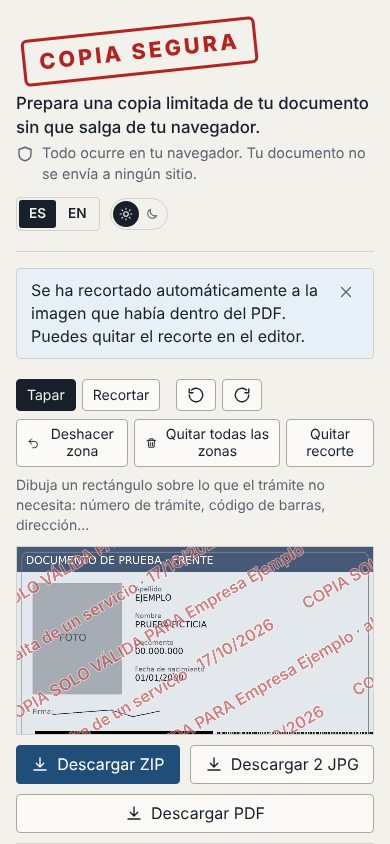
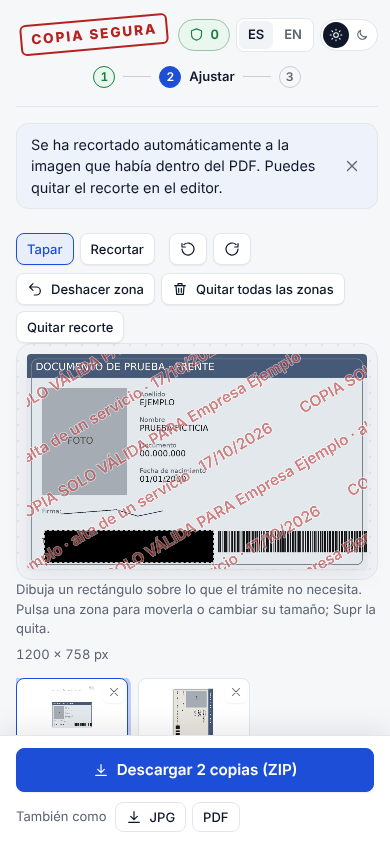
docs: rediseño en README, arquitectura, amenazas y ADR-0005; capturas nuevas; changelog 1.3.0
Claude-Session: https://claude.ai/code/session_01LUxn2Ph3TUErC9MN3Ck8ty

diff --git a/docs/arquitectura.md b/docs/arquitectura.md
@@ -8,7 +8,7 @@ atraviesa un caso de uso el sistema.
 flowchart LR
   subgraph ui["ui/ (DOM, estado de la interfaz)"]
     Main["main.ts<br/>raíz de composición"]
-    Views["vistas: header, notice, dropzone + demo,<br/>page-strip, editor, settings,<br/>export-bar, camera-dialog, about"]
+    Views["vistas: header (pasos, contador), notice,<br/>dropzone + demo, editor, page-strip,<br/>settings, export-bar, camera-dialog, about"]
     Services["services.ts"]
     Store["store.ts"]
   end
@@ -36,16 +36,16 @@ flowchart LR
 
 Funciones puras y tipos. Sin imports externos a la carpeta, sin DOM, sin `Date.now()`.
 
-| Módulo          | Responsabilidad                                                                                                                            |
-| --------------- | ------------------------------------------------------------------------------------------------------------------------------------------ |
-| `types.ts`      | `Page`, `PageEdits`, `Rotation`, `NormalizedRect`, `WatermarkStyle`, `WatermarkText`, `OutputOptions`, `CopyPlan`.                         |
-| `geometry.ts`   | Normalizar rectángulos, girarlos con la página, intersectar con el recorte, escalar a píxeles, `fitScale`.                                 |
-| `presets.ts`    | Presets _Normal_ y _Suave_; `resolveStyle(preset, overrides)`; acotación de rangos.                                                        |
-| `watermark.ts`  | Composición del texto (`composeWatermarkText`) y cálculo del mosaico (`layoutWatermark`), que recibe una función `MeasureText` para medir. |
-| `plan.ts`       | `planCopy(...)`: combina todo lo anterior en un `CopyPlan` determinista.                                                                   |
-| `pdf-images.ts` | Reconstrucción de la matriz de transformación sobre la lista de operadores de un PDF para localizar imágenes incrustadas.                  |
-| `templates.ts`  | Plantillas de zonas a tapar por tipo de documento, relativas a la tarjeta (RF-16).                                                         |
-| `naming.ts`     | Nombres de archivo de salida.                                                                                                              |
+| Módulo          | Responsabilidad                                                                                                                                                                  |
+| --------------- | -------------------------------------------------------------------------------------------------------------------------------------------------------------------------------- |
+| `types.ts`      | `Page`, `PageEdits`, `Rotation`, `NormalizedRect`, `WatermarkStyle`, `WatermarkText`, `OutputOptions`, `CopyPlan`.                                                               |
+| `geometry.ts`   | Normalizar rectángulos, girarlos con la página, moverlos y redimensionarlos sin salir del marco, intersectar con el recorte, escalar a píxeles, `fitScale`, bloque del pixelado. |
+| `presets.ts`    | Presets _Normal_ y _Suave_; `resolveStyle(preset, overrides)`; acotación de rangos.                                                                                              |
+| `watermark.ts`  | Composición del texto (`composeWatermarkText`) y cálculo del mosaico (`layoutWatermark`), que recibe una función `MeasureText` para medir.                                       |
+| `plan.ts`       | `planCopy(...)`: combina todo lo anterior en un `CopyPlan` determinista.                                                                                                         |
+| `pdf-images.ts` | Reconstrucción de la matriz de transformación sobre la lista de operadores de un PDF para localizar imágenes incrustadas.                                                        |
+| `templates.ts`  | Plantillas de zonas a tapar por tipo de documento, relativas a la tarjeta (RF-16).                                                                                               |
+| `naming.ts`     | Nombres de archivo de salida.                                                                                                                                                    |
 
 ### `src/application/`
 
@@ -70,9 +70,12 @@ o el DOM de descarga. Cada adaptador implementa exactamente un puerto.
 
 - `main.ts`: raíz de composición. Construye los adaptadores, los casos de uso y monta las vistas.
 - `store.ts`: estado inmutable con `get`, `update` y `select` (suscripción por selector), más las
-  acciones que lo transforman.
+  acciones que lo transforman y la conversión entre coordenadas de la vista previa y del marco de
+  página (`viewToPage` / `pageToView`). Tiene sus propios tests.
 - `services.ts`: orquesta casos de uso con el estado (ocupado, avisos traducidos).
 - `views/*.ts`: cada vista recibe el elemento raíz, el store y las dependencias que necesita.
+- `trust.ts`: contador de peticiones a otros dominios (RF-22), con _Resource Timing_. La
+  clasificación de URLs es pura y se prueba sin navegador.
 - `theme.ts`: tema claro / oscuro (RF-19). La decisión es una función pura (`toggledPreference`,
   probada sin navegador); aplicar y recordar, en funciones finas sobre el DOM. `public/theme.js`
   aplica la preferencia guardada antes del primer pintado.
@@ -96,6 +99,6 @@ o el DOM de descarga. Cada adaptador implementa exactamente un puerto.
 
 | Nivel        | Qué cubre                                                                                                                                                                                                                                             | Herramienta                  |
 | ------------ | ----------------------------------------------------------------------------------------------------------------------------------------------------------------------------------------------------------------------------------------------------- | ---------------------------- |
-| Unitarias    | `domain` y `application` con puertos falsos, y la lógica pura del tema. Nombradas por requisito (`RF-07`).                                                                                                                                            | Vitest, entorno Node         |
+| Unitarias    | `domain` y `application` con puertos falsos; en `ui`, el store, el tema y el contador. Nombradas por requisito (`RF-07`).                                                                                                                             | Vitest, entorno Node         |
 | Arquitectura | Regla de dependencia entre capas.                                                                                                                                                                                                                     | Vitest (análisis de imports) |
 | E2E          | Flujo completo con el documento de ejemplo en Chromium, servido bajo `/copia-segura/` como en Pages: importar, tapar, exportar, portada, plantillas, B/N, móvil, **cero peticiones externas** y una petición a otro dominio **bloqueada por la CSP**. | Playwright                   |

diff --git a/README.md b/README.md
@@ -25,14 +25,14 @@ documento a un servidor ajeno, que es justo lo que quieres evitar.
 
 ## Qué hace
 
-|                   |                                                                                                                                                                                                                                                                                                            |
-| ----------------- | ---------------------------------------------------------------------------------------------------------------------------------------------------------------------------------------------------------------------------------------------------------------------------------------------------------- |
-| **Entrada**       | Un PDF (cada página es editable; si la página es un A4 con la foto del documento dentro, se recorta sola), fotos JPG/PNG/WebP, o una captura con la cámara para la foto sosteniendo el documento (sin espejo). La portada enseña el resultado, paso a paso, con un documento ficticio antes de subir nada. |
-| **Edición**       | Tapar zonas dibujando con el ratón o el dedo, por franjas con botones o con plantillas de zonas típicas (DNI de España y de Argentina, frente y dorso); recortar, girar, deshacer.                                                                                                                         |
-| **Marca de agua** | Texto editable: `COPIA SOLO VÁLIDA PARA <destinatario> · <finalidad> · <fecha>`. Dos intensidades (_Normal_ y _Suave_) y ajuste fino de opacidad, tamaño, separación, ángulo, color y borde. El mosaico cruza toda la imagen, también las esquinas.                                                        |
-| **Salida**        | JPG por página, ZIP, un PDF de varias páginas o el menú de compartir del móvil. Blanco y negro opcional. Lado máximo configurable (1200 px por defecto), sin EXIF, XMP ni perfil de color de la foto original.                                                                                             |
-| **Interfaz**      | Español e inglés; tema claro u oscuro (sigue al del sistema o el que elijas, y lo recuerda).                                                                                                                                                                                                               |
-| **Privacidad**    | Todo ocurre en el navegador. La página no puede hacer peticiones a otros dominios (lo impone su _Content Security Policy_) y no guarda el documento en ningún sitio. Un test e2e registra todas las peticiones de un flujo completo y falla si alguna sale del origen.                                     |
+|                   |                                                                                                                                                                                                                                                                                                                                                 |
+| ----------------- | ----------------------------------------------------------------------------------------------------------------------------------------------------------------------------------------------------------------------------------------------------------------------------------------------------------------------------------------------- |
+| **Entrada**       | Un PDF (cada página es editable; si la página es un A4 con la foto del documento dentro, se recorta sola), fotos JPG/PNG/WebP, o una captura con la cámara para la foto sosteniendo el documento (sin espejo). La portada enseña el resultado, paso a paso, con un documento ficticio antes de subir nada.                                      |
+| **Edición**       | Tapar zonas dibujando con el ratón o el dedo, por franjas con botones o con plantillas de zonas típicas (DNI de España y de Argentina, frente y dorso); moverlas y redimensionarlas, también con teclado; en negro o pixelado grueso; recortar, girar, deshacer.                                                                                |
+| **Marca de agua** | Texto editable: `COPIA SOLO VÁLIDA PARA <destinatario> · <finalidad> · <fecha>`. Dos intensidades (_Normal_ y _Suave_) y ajuste fino de opacidad, tamaño, separación, ángulo, color y borde. El mosaico cruza toda la imagen, también las esquinas.                                                                                             |
+| **Salida**        | JPG por página, ZIP, un PDF de varias páginas o el menú de compartir del móvil. Blanco y negro opcional. Lado máximo configurable (1200 px por defecto), sin EXIF, XMP ni perfil de color de la foto original.                                                                                                                                  |
+| **Interfaz**      | Español e inglés; tema claro u oscuro (sigue al del sistema o el que elijas, y lo recuerda).                                                                                                                                                                                                                                                    |
+| **Privacidad**    | Todo ocurre en el navegador. La página no puede hacer peticiones a otros dominios (lo impone su _Content Security Policy_) y no guarda el documento en ningún sitio. Un contador en la cabecera muestra en vivo las peticiones a otros dominios (cero) y un test e2e registra todas las de un flujo completo y falla si alguna sale del origen. |
 
 Y lo que **no** hace, dicho en la propia interfaz: una marca de agua disuade y deja rastro, pero no
 impide que alguien use la copia, y se puede intentar borrar con herramientas de _inpainting_. Los
@@ -111,7 +111,7 @@ Más detalle y un diagrama en [`docs/arquitectura.md`](docs/arquitectura.md).
 
 ```
 docs/
-  specs/          SPEC-0001…0006: visión, requisitos, RNF, modelo de dominio, portada y diferencial, tema
+  specs/          SPEC-0001…0009: visión, requisitos, RNF, dominio, diferencial, tema, rediseño
   adr/            decisiones de arquitectura
   arquitectura.md capas, puertos, flujo de un caso de uso
   amenazas.md     qué protege y qué no

diff --git a/README.en.md b/README.en.md
@@ -25,14 +25,14 @@ else's server, which is exactly what you want to avoid.
 
 ## What it does
 
-|               |                                                                                                                                                                                                                                                                                |
-| ------------- | ------------------------------------------------------------------------------------------------------------------------------------------------------------------------------------------------------------------------------------------------------------------------------ |
-| **Input**     | A PDF (every page is editable; if a page is an A4 with the document photo inside, it is cropped automatically), JPG/PNG/WebP photos, or a camera capture for the "holding the document" selfie (not mirrored).                                                                 |
-| **Editing**   | Redact areas by drawing with mouse or finger, by strips with buttons, or with templates of typical areas (Spanish and Argentine IDs, front and back); crop, rotate, undo.                                                                                                      |
-| **Watermark** | Editable text: `COPY ONLY VALID FOR <recipient> · <purpose> · <date>` (Spanish default in the Spanish UI). Two intensities (_Normal_ and _Subtle_) plus fine tuning of opacity, size, spacing, angle, colour and outline. The tiling covers the whole image, corners included. |
-| **Output**    | One JPG per page, a ZIP, a multi-page PDF, or the phone's share menu. Optional black and white. Configurable longest side (1200 px by default); no EXIF, XMP or colour profile from the original photo.                                                                        |
-| **Interface** | Spanish and English; light or dark theme (follows the system or your choice, and remembers it).                                                                                                                                                                                |
-| **Privacy**   | Everything happens in the browser. The page cannot make requests to other domains (enforced by its Content Security Policy) and stores the document nowhere. An end-to-end test records every request of a full flow and fails if any leaves the origin.                       |
+|               |                                                                                                                                                                                                                                                                                                                                   |
+| ------------- | --------------------------------------------------------------------------------------------------------------------------------------------------------------------------------------------------------------------------------------------------------------------------------------------------------------------------------- |
+| **Input**     | A PDF (every page is editable; if a page is an A4 with the document photo inside, it is cropped automatically), JPG/PNG/WebP photos, or a camera capture for the "holding the document" selfie (not mirrored).                                                                                                                    |
+| **Editing**   | Redact areas by drawing with mouse or finger, by strips with buttons, or with templates of typical areas (Spanish and Argentine IDs, front and back); move and resize them, keyboard included; solid black or coarse pixelation; crop, rotate, undo.                                                                              |
+| **Watermark** | Editable text: `COPY ONLY VALID FOR <recipient> · <purpose> · <date>` (Spanish default in the Spanish UI). Two intensities (_Normal_ and _Subtle_) plus fine tuning of opacity, size, spacing, angle, colour and outline. The tiling covers the whole image, corners included.                                                    |
+| **Output**    | One JPG per page, a ZIP, a multi-page PDF, or the phone's share menu. Optional black and white. Configurable longest side (1200 px by default); no EXIF, XMP or colour profile from the original photo.                                                                                                                           |
+| **Interface** | Spanish and English; light or dark theme (follows the system or your choice, and remembers it).                                                                                                                                                                                                                                   |
+| **Privacy**   | Everything happens in the browser. The page cannot make requests to other domains (enforced by its Content Security Policy) and stores the document nowhere. A counter in the header shows requests to other domains live (zero), and an end-to-end test records every request of a full flow and fails if any leaves the origin. |
 
 And what it does **not** do, stated in the interface itself: a watermark deters and leaves a trace,
 but it does not stop someone from using the copy, and it can be attacked with inpainting tools.
@@ -112,7 +112,7 @@ messages are in English where the ecosystem expects it and Spanish where the dom
 
 ```
 docs/
-  specs/          SPEC-0001…0006: vision, requirements, NFRs, domain model, landing and differentiators, theme
+  specs/          SPEC-0001…0009: vision, requirements, NFRs, domain, differentiators, theme, redesign
   adr/            architecture decision records
   arquitectura.md layers, ports, one use case end to end
   amenazas.md     threat model: what it protects and what it does not

diff --git a/docs/amenazas.md b/docs/amenazas.md
@@ -14,6 +14,7 @@ de "seguridad" promete más de lo que cumple.
 | ---------------------------------------------------------------------------------------------------- | -------------------------------------------------------------------------------------------------------------------------------------------------------------- | ---------------------------------------------------------------- |
 | La copia entregada se reutiliza para otro trámite o se vende.                                        | Marca diagonal repetida con destinatario, finalidad y fecha que cruza foto, número y firma. Encarece la reutilización y deja constancia de a quién se entregó. | RF-07, e2e                                                       |
 | Datos que el trámite no necesita viajan igualmente (número de trámite, código de barras, dirección). | Zonas tapadas con negro opaco pintado sobre los píxeles.                                                                                                       | RF-06, e2e "en el archivo exportado el píxel original no existe" |
+| Texto pixelado que se recupera con técnicas de _depixelado_.                                         | Negro por defecto. El pixelado es opcional, de bloques grandes (la mitad del lado corto de la zona) y la interfaz desaconseja usarlo sobre números o texto.    | RF-28                                                            |
 | La foto lleva ubicación, modelo de móvil y fecha en EXIF.                                            | La salida se genera desde un lienzo nuevo: sin EXIF, XMP ni ICC.                                                                                               | RF-08, test sobre el archivo generado                            |
 | Una copia en alta resolución facilita falsificaciones físicas.                                       | Lado máximo 1200 px por defecto; nunca se amplía.                                                                                                              | RF-08                                                            |
 | La herramienta misma envía el documento a un servidor.                                               | Sin backend; CSP con `connect-src 'self'` (solo el propio origen, estático); sin dependencias externas; test e2e que registra todas las peticiones.            | ADR-0001, ADR-0005, RNF-01                                       |
@@ -46,6 +47,8 @@ de "seguridad" promete más de lo que cumple.
 
 ## Qué revisar si cambias algo
 
-- Añadir una dependencia: ¿carga algo en tiempo de ejecución? Debe empaquetarse (ADR-0005).
+- Añadir una dependencia: ¿carga algo en tiempo de ejecución? Debe empaquetarse (ADR-0005). Así se
+  sirve la fuente Inter: es un recurso más del build, del propio origen.
+- Mensajes de confianza: solo lo que se puede comprobar. Nada de "cifrado": no ciframos nada (RF-23).
 - Añadir persistencia: ¿contiene algo del documento? Entonces no (RNF-01).
 - Cambiar la marca por defecto: ¿sigue cruzando los campos sensibles en una tarjeta 86×54 mm? (RF-07)

diff --git a/CHANGELOG.md b/CHANGELOG.md
@@ -2,6 +2,28 @@
 
 Formato: [Keep a Changelog](https://keepachangelog.com/es/1.1.0/). Versionado semántico.
 
+## [1.3.0] · 2026-10-17
+
+Rediseño de la interfaz: SPEC-0007, SPEC-0008 y SPEC-0009.
+
+### Añadido
+
+- Sistema visual nuevo (RF-20): neutros fríos, un solo color de acción, verde para la confianza y
+  el rojo del sello solo para la marca; Inter alojada en el propio origen.
+- Contador en vivo de peticiones a otros dominios en la cabecera (RF-22).
+- Portada y editor de dos paneles con indicador de pasos _Subir → Ajustar → Descargar_ y transición
+  entre ambos (RF-24); descarga fija al pie del panel (RF-25).
+- Intensidad como control segmentado con muestra de la marca (RF-21).
+- Sugerencias de finalidad y hueco para el dorso (RF-26).
+- Zonas editables: seleccionar, mover, redimensionar y quitar, también con teclado (RF-27).
+- Tapado pixelado grueso como alternativa al negro, con aviso de cuándo no usarlo (RF-28).
+- Aviso específico para fotos HEIC que el navegador no abre (RF-29).
+- Preguntas frecuentes (RF-30).
+
+### Cambiado
+
+- Textos más cortos y directos; aviso de éxito al exportar (RF-23).
+
 ## [1.2.0] · 2026-10-17
 
 SPEC-0006: tema claro y oscuro.

diff --git a/docs/adr/0005-csp-estricta-y-sin-red.md b/docs/adr/0005-csp-estricta-y-sin-red.md
@@ -26,8 +26,10 @@ form-action 'none'`. GitHub Pages no permite cabeceras personalizadas, por eso v
 4. Ningún script en línea: la política no lleva `'unsafe-inline'`. Lo que debe ejecutarse antes de
    pintar (aplicar el tema guardado, RF-19) va en un archivo clásico del propio origen,
    `public/theme.js`.
-5. No hay _service worker_: no hay nada que precargar y evita cualquier duda sobre qué se cachea.
-6. El _worker_ de pdf.js, donde de verdad se analiza el PDF, se arranca desde un `blob:` creado por
+5. Las fuentes de la interfaz (Inter, RF-20) se empaquetan con el build y se sirven desde el propio
+   origen: `font-src 'self'` no cambia.
+6. No hay _service worker_: no hay nada que precargar y evita cualquier duda sobre qué se cachea.
+7. El _worker_ de pdf.js, donde de verdad se analiza el PDF, se arranca desde un `blob:` creado por
    la página y no desde una URL. Un worker cargado por URL recibe su política de las cabeceras de
    su propia respuesta (Pages no envía ninguna); uno `blob:` hereda la del documento. Así la CSP
    también rige dentro del worker.
